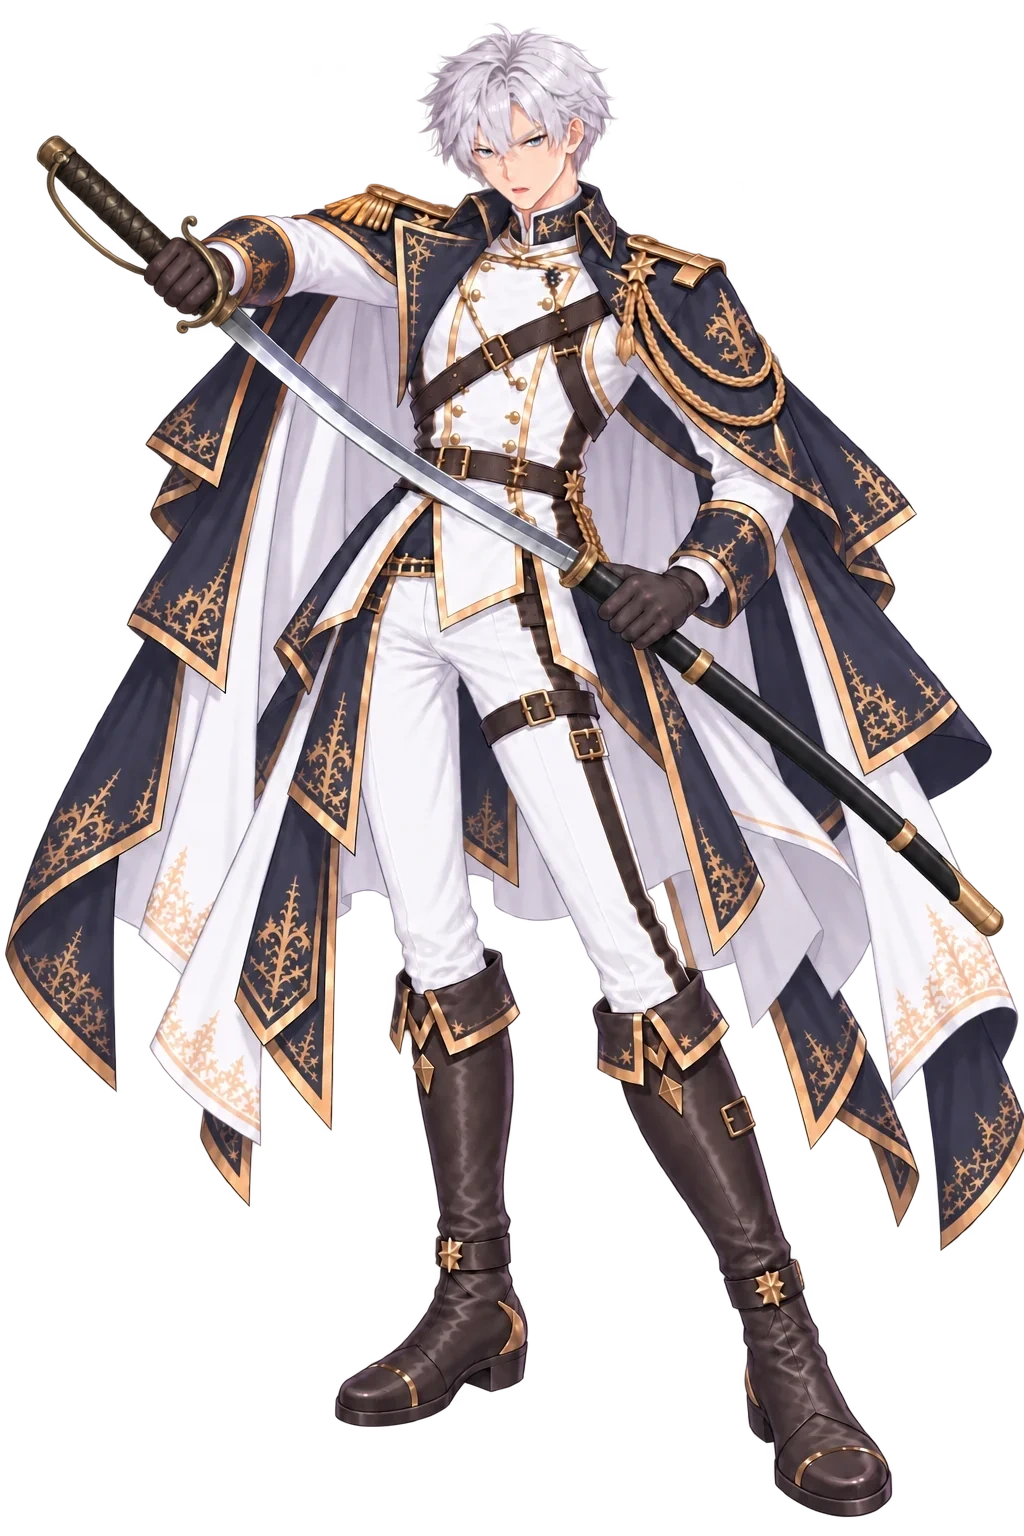
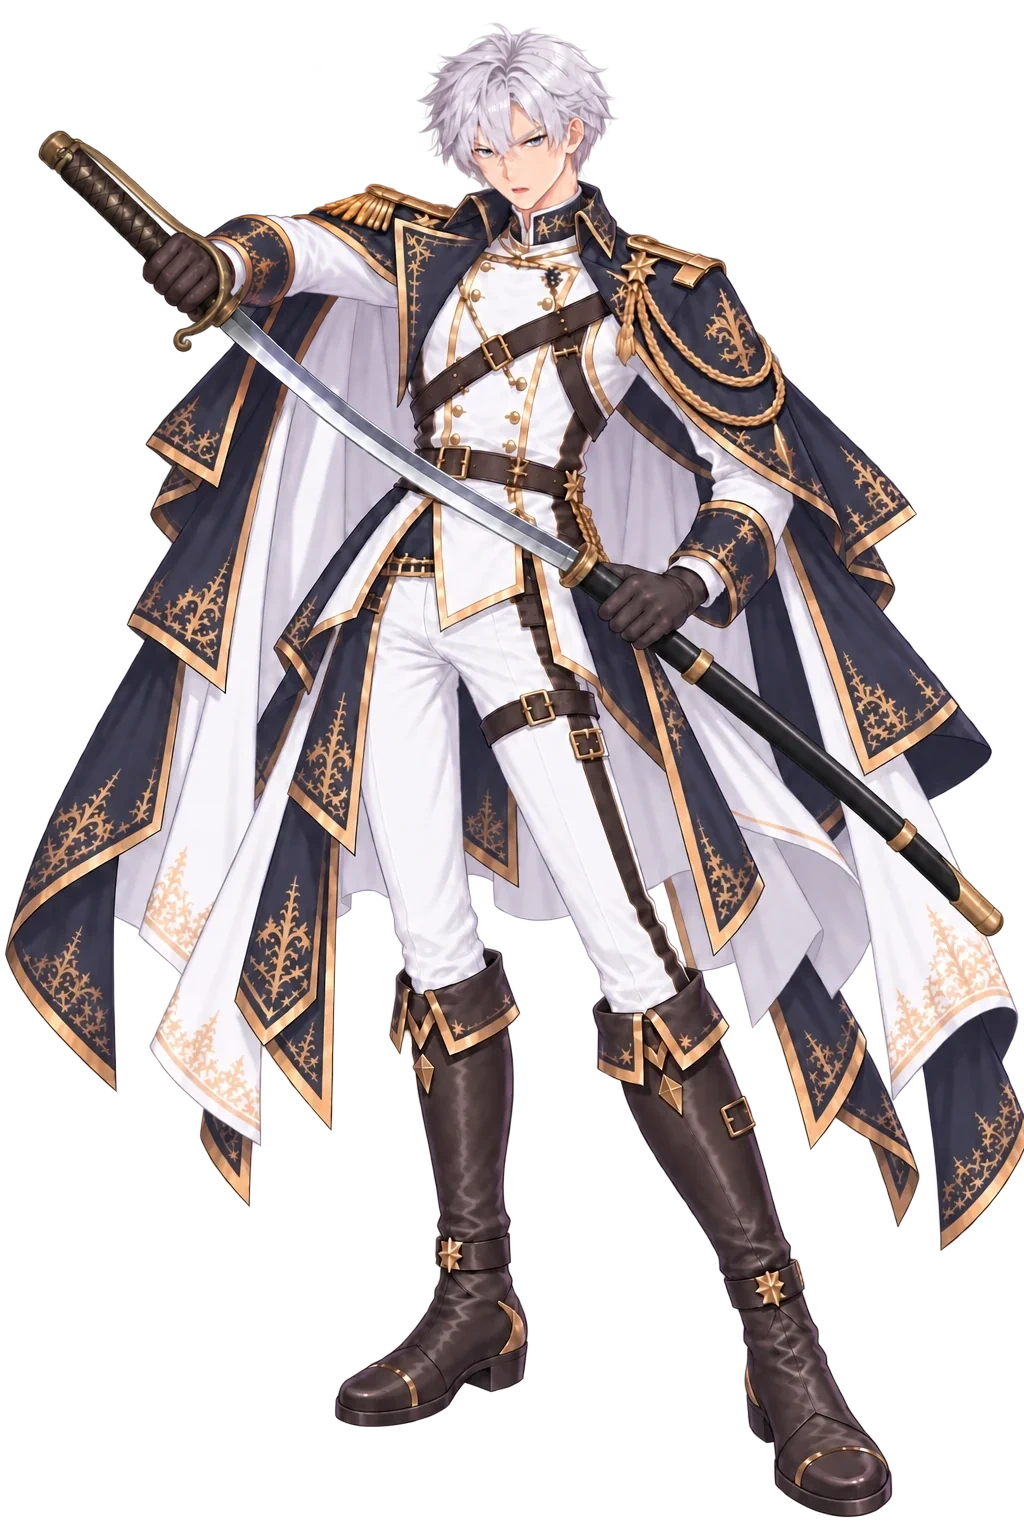
art(米夏): draw／drawopen 護手第七版 —— 弓移到刀刃側（柄上緣、越過拳頭上方接進鍔上側）
Ray：「這樣刀刃就反了」「刀刃應該朝上」「護弓角度按我畫的 就對了」（第六版退件）

v6 的弓在柄的左下側＝刀背側。v7 照 Ray 第二張畫線：弓從柄頭沿柄上緣貼著走、
越過拳頭上方、小鉤接進鍔的上側；S 形鍔尖在下側；左下側沒有弓。材質沿用 v6。

· 仍只拼刀柄＋拳頭區回原圖（臉 0 px、邊界帶色差 10.1、袖口無縫）
· q92 第二代、alpha 零誤差、近白 0%；top/bot 22/1516 不變
· v6 webp 走 recycle.sh；工單附三加第 0 條「先定刀刃朝哪邊，弓就在那一邊」

⚠ 程式端要接：speakers.js draw ?v=2→3、drawopen 加 ?v=2（HANDOFF 標頭第 4 條已掛）

Changed region(s): [[0.0312, 0.0625, 0.2812, 0.25], [0.3125, 0.125, 0.3438, 0.1562]]

diff --git a/resources/_HANDOFF_ART_20260924.md b/resources/_HANDOFF_ART_20260924.md
@@ -132,11 +132,12 @@
 
 ---
 
-## 八、2026-09-24 晚（Windows 那台）：米夏 `draw` 護手 —— ✔ 交件（第六版）
+## 八、2026-09-24 晚（Windows 那台）：米夏 `draw` 護手 —— ✔ 交件（第七版）
 
-- 退四次才過：v1 只黏弓末端；v2 鍔尖仍在拳頭上方；v3 弓在拳頭旁邊就斷；v4 弓的弧度與材質不對（亮金圓管大圓弧）。
+- 退五次才過：v1 只黏弓末端；v2 鍔尖仍在拳頭上方；v3 弓在拳頭旁邊就斷；v4 弓的弧度與材質不對（亮金圓管大圓弧）；
+  v6 弓在刀背側（Ray：「這樣刀刃就反了」「刀刃應該朝上」）。**v7：弓在刀刃側＝柄的上緣、越過拳頭上方接進鍔上側。**
   v5/v6 每則都附畜生道整把＋護手局部，逐項鎖「扁平舊黃銅條、窄 D 貼柄、末端小鉤、深近黑纏繩」才過。
-  六版病因、有效作法、產線兩個坑（附圖與文字同一則送／抓圖用 blob 大小排除舊版）、驗收五件，都在 `si/_misha_program_worklist.md` **附三**。
+  七版病因、有效作法（第 0 條：先定刀刃朝哪邊）、產線兩個坑（附圖與文字同一則送／抓圖用 blob 大小排除舊版）、驗收六件，都在 `si/_misha_program_worklist.md` **附三**。
 - `draw`／`drawopen` 都交了（本機只拼刀柄＋拳頭區回原圖，臉 0 px 改動）。
 - **程式端要接**：`speakers.js` `draw` `?v=2→3`、`drawopen` 加 `?v=2`；取景值不變。
 - ⚠ **問 Ray**：`front` 與 09-23 那五張的護手仍是亮金圓管大圓弧，只有 `draw` 是畜生道規格 —— 要不要全套換。
